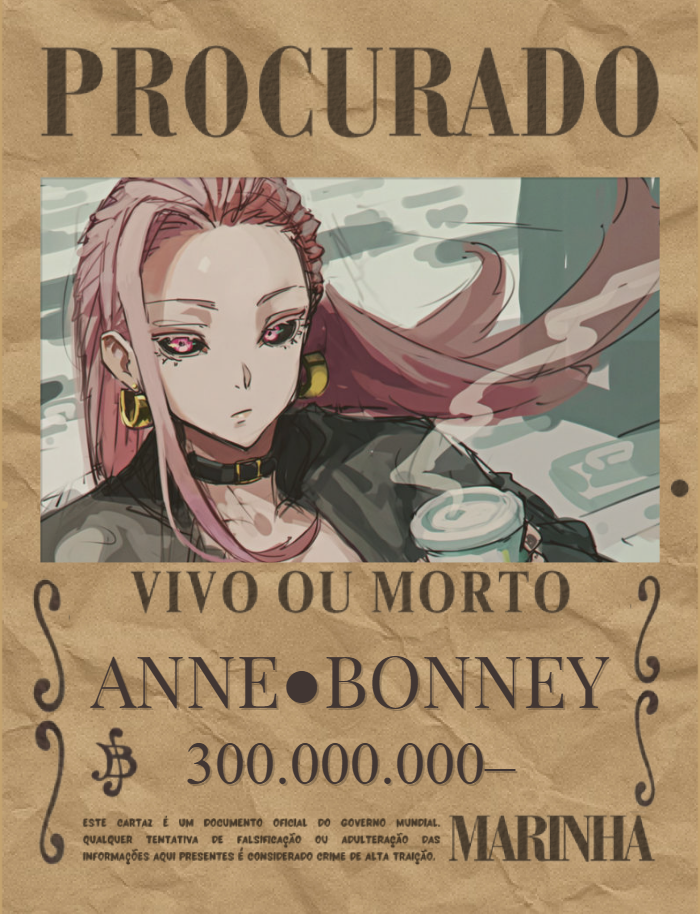
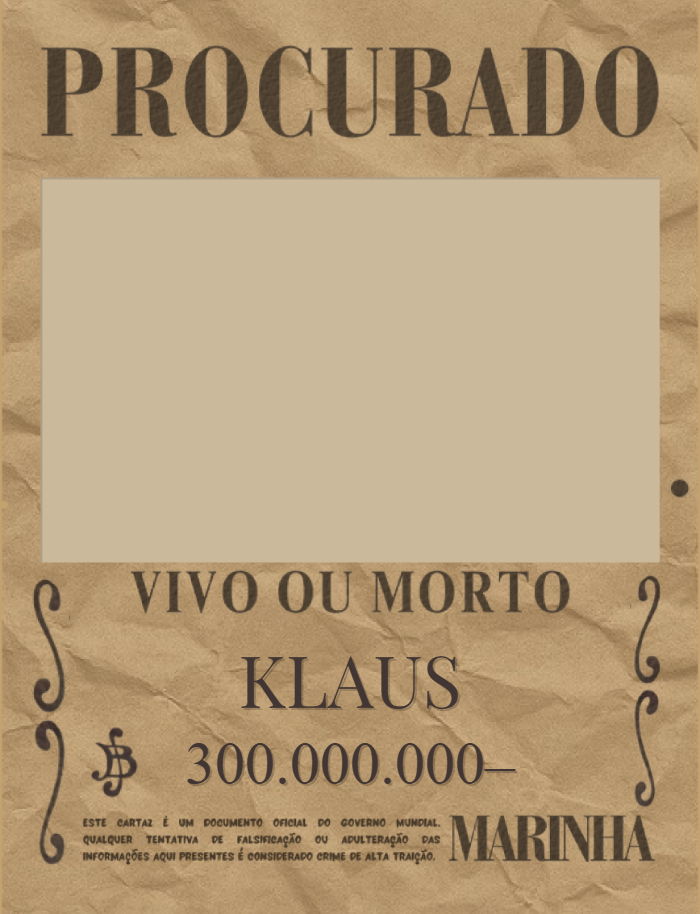
Site

diff --git a/aparencias.html b/aparencias.html
@@ -110,15 +110,6 @@
                     </div>
                     
                     <div class="gallery-item">
-                        <img src="assets\imagens\Personagens\Anne Bonney.png" alt="Anne Bonney" class="gallery-img">
-                        <div class="gallery-info">
-                            <div class="gallery-title">Anne Bonney</div>
-                            <div class="gallery-subtitle"><a href="https://myanimelist.net/character/207779/Takako_Uro" target="_blank">Uro Takako</a></div>
-                            <div class="gallery-id">NPC</div>
-                        </div>
-                    </div>
-                    
-                    <div class="gallery-item">
                         <img src="assets\imagens\Personagens\Apocalipse.png" alt="Personagem Anônimo" class="gallery-img">
                         <div class="gallery-info">
                             <div class="gallery-title">???</div>

diff --git a/cacadas.html b/cacadas.html
@@ -350,9 +350,9 @@
                         </div>
                     </div>
                     <div class="bounty-card">
-                        <img src="assets\imagens\Caçadas\Paraíso\Cartaz 4.png" alt="Anne Bonney" class="bounty-image">
+                        <img src="assets\imagens\Caçadas\Paraíso\Cartaz 4.png" alt="Klaus" class="bounty-image">
                         <div class="bounty-info">
-                            <h3 class="bounty-name">Anne Bonney</h3>
+                            <h3 class="bounty-name">Klaus</h3>
                             <p class="bounty-value">300.000.000</p>
                             <p class="bounty-location">San Faldo</p>
                         </div>

diff --git a/assets/js/script.js b/assets/js/script.js
@@ -5659,7 +5659,6 @@ window.donosDeAkuma = {
     "Uta Uta no Mi": "???",
     "Yami Yami no Mi": "Andrial D. Oran",
     "Yomi Yomi no Mi": "La Muerte",
-    "Yuki Yuki no Mi": "Anne Bonney",
     "Zushi Zushi no Mi": "Sorum"
 };
 
